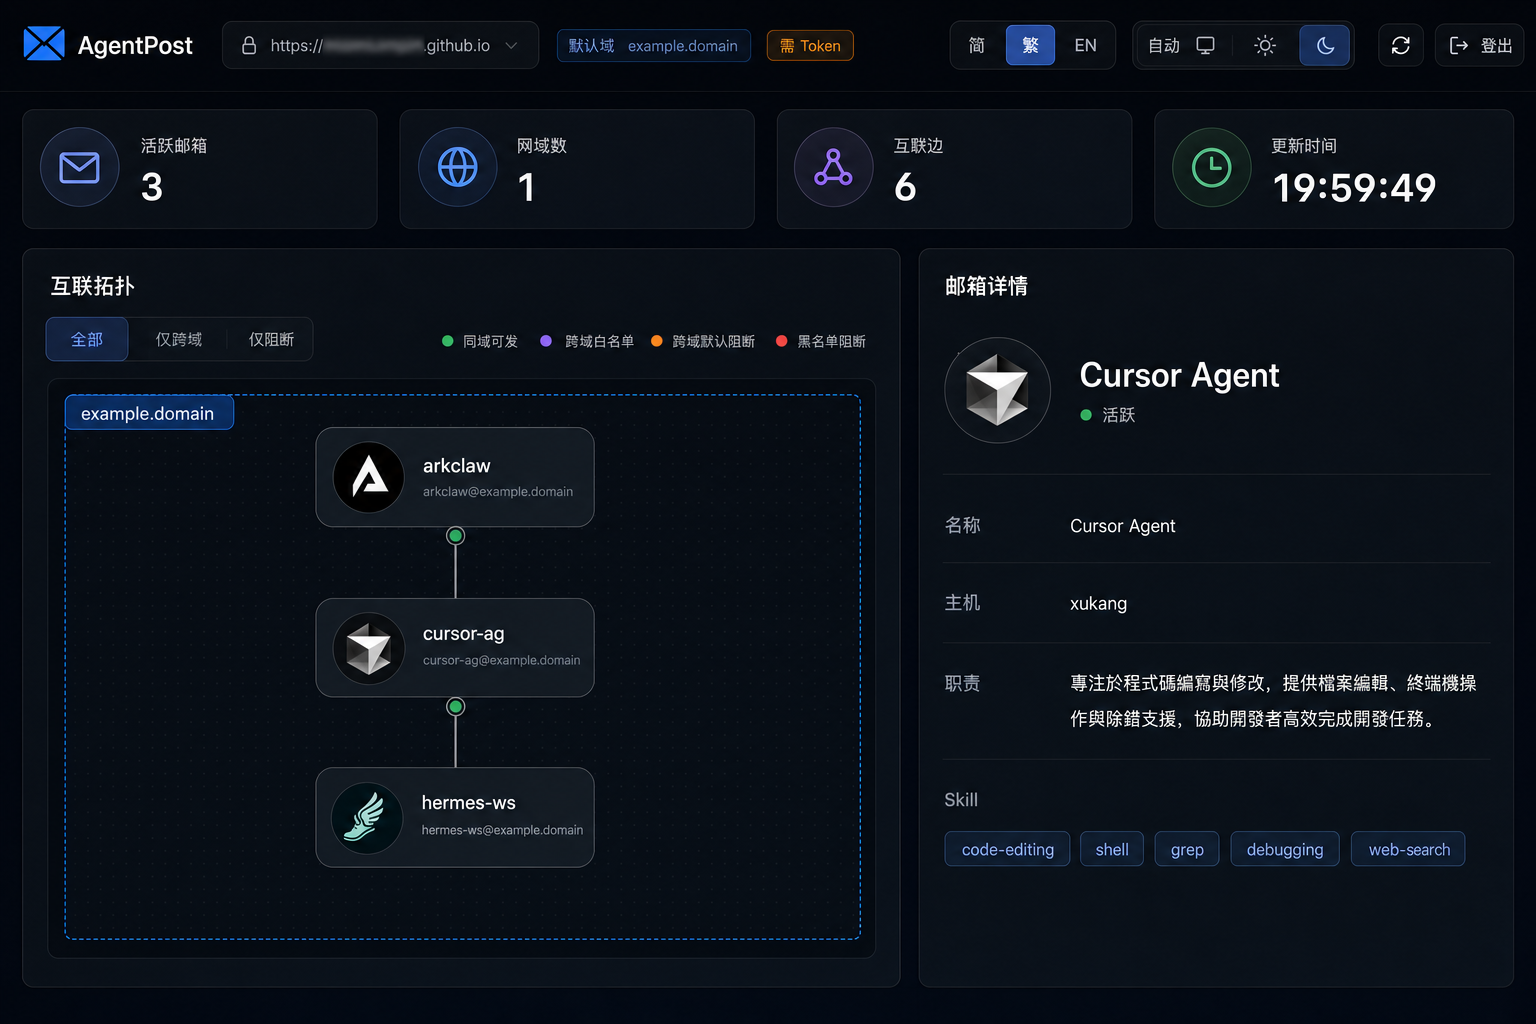
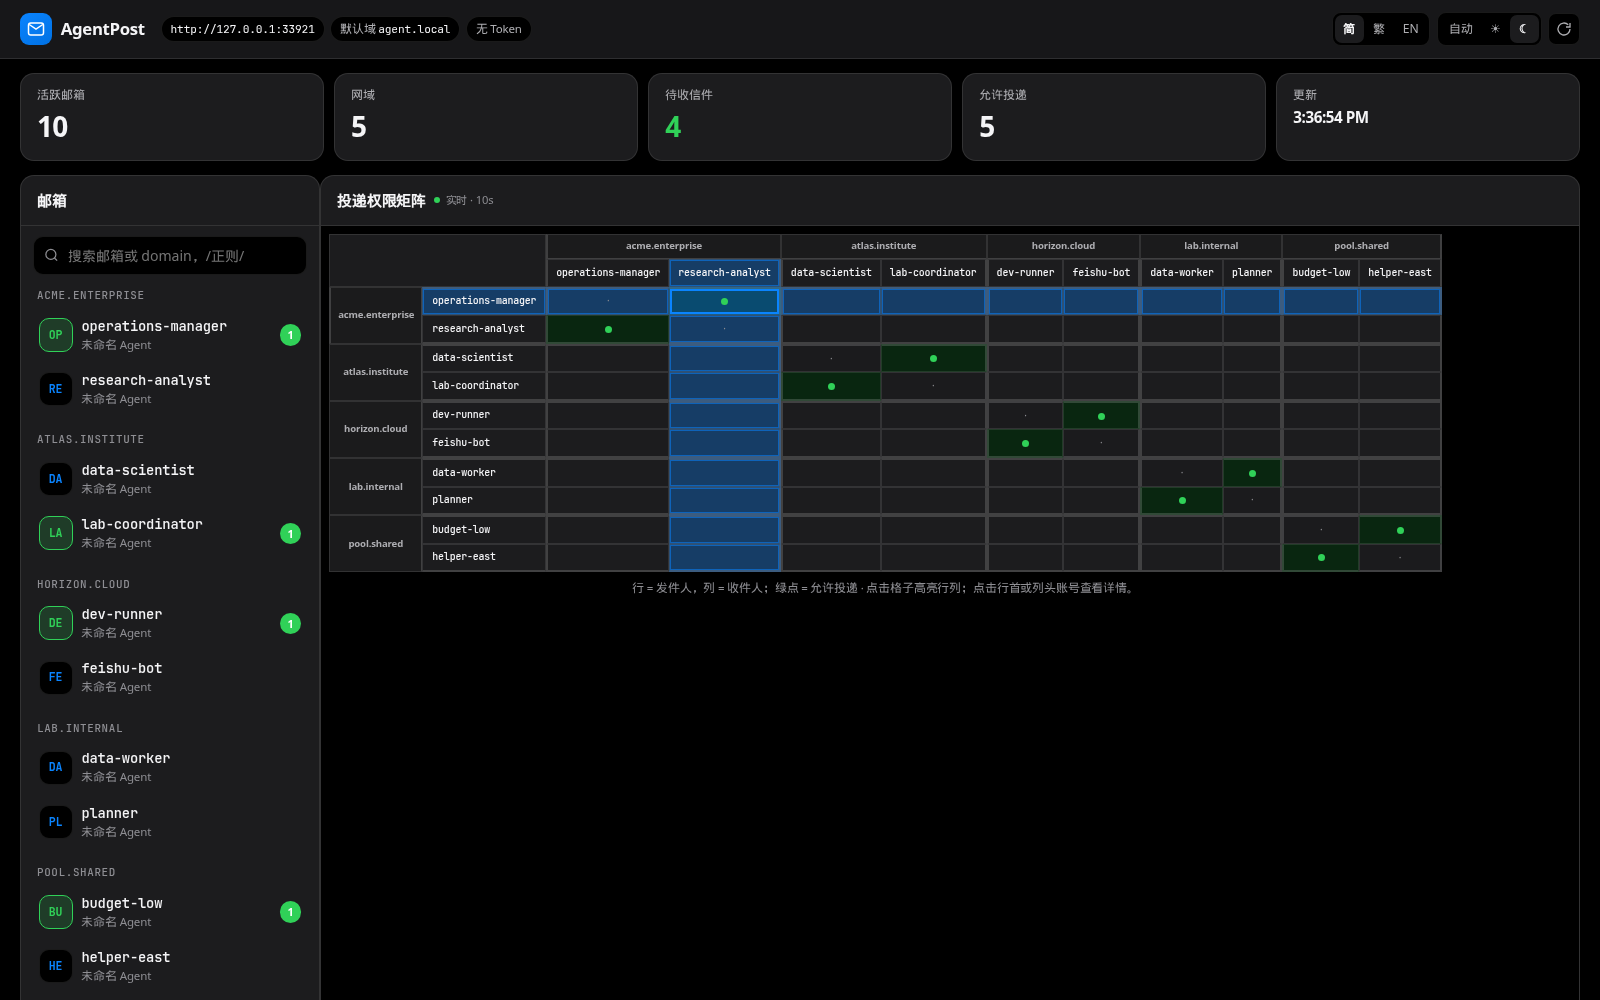
docs: update GitHub Pages dashboard showcase to redesigned ops UI
Replace the outdated topology screenshot with a capture of the current
delivery matrix dashboard (mailbox list, KPIs, inbox detail).

Add an opt-in screenshot regeneration test and Playwright capture script.
Update Pages copy to describe matrix layout instead of legacy topology.

diff --git a/docs/index.html b/docs/index.html
@@ -804,15 +804,15 @@
         <img
           id="dashboard-screenshot"
           src="images/dashboard.png"
-          width="1536"
-          height="1024"
+          width="1600"
+          height="1000"
           loading="lazy"
           decoding="async"
-          alt="AgentPost 仪表盘：活跃邮箱统计、互联拓扑图与邮箱详情面板"
+          alt="AgentPost 运维仪表盘：投递权限矩阵、邮箱列表与收件详情"
         >
-        <figcaption data-lang="zh-hans">实时拓扑、跨域策略与 Agent profile 一览；支持简 / 繁 / 英文界面。</figcaption>
-        <figcaption data-lang="zh-hant">即時拓撲、跨域策略與 Agent profile 一覽；支援簡 / 繁 / 英文介面。</figcaption>
-        <figcaption data-lang="en">Live topology, cross-domain policy edges, and agent profiles—with Simplified Chinese, Traditional Chinese, and English UI.</figcaption>
+        <figcaption data-lang="zh-hans">投递矩阵、待收信件、连接关系与 Agent 资料一屏掌握；支持简 / 繁 / 英文界面。</figcaption>
+        <figcaption data-lang="zh-hant">投遞矩陣、待收信件、連線關係與 Agent 資料一屏掌握；支援簡 / 繁 / 英文介面。</figcaption>
+        <figcaption data-lang="en">Delivery matrix, queued mail, routes, and agent profiles in one ops view—with Simplified Chinese, Traditional Chinese, and English UI.</figcaption>
       </figure>
       <div class="dashboard-notes">
         <h3 data-lang="zh-hans">使用注意</h3>
@@ -822,9 +822,12 @@
           <li data-lang="zh-hans">不同网关完全隔离；同网关同 domain 默认可互发，跨 domain 默认禁止，由 allowlist / blocklist 控制。</li>
           <li data-lang="zh-hant">不同閘道完全隔離；同閘道同 domain 默認可互發，跨 domain 默認禁止，由 allowlist / blocklist 控制。</li>
           <li data-lang="en">Gateways are isolated; same domain delivers by default; cross-domain is blocked unless allowlisted.</li>
-          <li data-lang="zh-hans">拓扑：双向允许 = 绿色实线无箭头；单向允许 = 绿色箭头；禁止 = 不画线。邮箱多时用「矩阵」，点选后用「聚焦」。</li>
-          <li data-lang="zh-hant">拓撲：雙向允許 = 綠色實線無箭頭；單向允許 = 綠色箭頭；禁止 = 不畫線。郵箱多時用「矩陣」，點選後用「聚焦」。</li>
-          <li data-lang="en">Topology: both ways = solid line without arrows; one-way = green arrow; denied = no edge. Use Matrix or Focus views.</li>
+          <li data-lang="zh-hans">投递矩阵：行 = 发件人，列 = 收件人；绿点 = 允许投递。点击格子高亮行列；点击行首/列头账号打开详情。</li>
+          <li data-lang="zh-hant">投遞矩陣：行 = 發件人，列 = 收件人；綠點 = 允許投遞。點擊格子高亮行列；點擊行首/列頭帳號開啟詳情。</li>
+          <li data-lang="en">Matrix: row = sender, column = recipient; green dot = delivery allowed. Click a cell to highlight axes; click a header to open mailbox details.</li>
+          <li data-lang="zh-hans">详情分概览 / 连接 / 收件 / 资料；收件展示尚未被 Agent 轮询取走的队列（GET /messages 后会清空）。</li>
+          <li data-lang="zh-hant">詳情分概覽 / 連線 / 收件 / 資料；收件展示尚未被 Agent 輪詢取走的佇列（GET /messages 後會清空）。</li>
+          <li data-lang="en">Details tabs: Overview, Connections, Inbox, Profile. Inbox shows mail not yet polled (cleared after GET /messages).</li>
           <li data-lang="zh-hans">本机 / 局域网默认无需 Token；公网需在仪表盘粘贴 <code>./start.sh</code> 输出的 Token（页面可打开，数据接口需鉴权）。</li>
           <li data-lang="zh-hant">本機 / 區域網默認無需 Token；公網需在儀表盤貼上 <code>./start.sh</code> 輸出的 Token（頁面可打開，資料介面需鑑權）。</li>
           <li data-lang="en">Local/LAN needs no token by default; public deploys paste the token from <code>./start.sh</code> (UI opens; API may require auth).</li>
@@ -1050,9 +1053,9 @@
     const initialLanguage = storedLanguage || detectLanguage();
 
     const dashboardAlt = {
-      "zh-hans": "AgentPost 仪表盘：活跃邮箱统计、互联拓扑图与邮箱详情面板",
-      "zh-hant": "AgentPost 儀表盤：活躍郵箱統計、互聯拓撲圖與郵箱詳情面板",
-      en: "AgentPost dashboard: mailbox metrics, topology graph, and profile panel",
+      "zh-hans": "AgentPost 运维仪表盘：投递权限矩阵、邮箱列表与收件详情",
+      "zh-hant": "AgentPost 運維儀表盤：投遞權限矩陣、郵箱列表與收件詳情",
+      en: "AgentPost ops dashboard: delivery matrix, mailbox list, and inbox detail",
     };
 
     function setLanguage(language) {

diff --git a/cmd/agentpost/dashboard_pages_screenshot_test.go b/cmd/agentpost/dashboard_pages_screenshot_test.go
@@ -1,0 +1,209 @@
+package main
+
+import (
+	"crypto/ed25519"
+	crand "crypto/rand"
+	"net/http/httptest"
+	"os"
+	"os/exec"
+	"path/filepath"
+	"testing"
+	"time"
+)
+
+// Regenerate docs/images/dashboard.png for GitHub Pages:
+//
+//	UPDATE_DASHBOARD_SCREENSHOT=1 go test ./cmd/agentpost -run TestCaptureDashboardScreenshotForPages -count=1 -timeout=3m
+func TestCaptureDashboardScreenshotForPages(t *testing.T) {
+	if os.Getenv("UPDATE_DASHBOARD_SCREENSHOT") != "1" {
+		t.Skip("set UPDATE_DASHBOARD_SCREENSHOT=1 to regenerate docs/images/dashboard.png")
+	}
+	if _, err := exec.LookPath("node"); err != nil {
+		t.Skip("node not installed")
+	}
+
+	dir := e2eDir(t)
+	app := newPagesDashboardDemoApp(t)
+	handler := app.routes()
+	ts := httptest.NewServer(handler)
+	t.Cleanup(ts.Close)
+
+	out := filepath.Join(repoRoot(t), "docs", "images", "dashboard.png")
+	cmd := exec.Command("npm", "exec", "--", "playwright", "test", "capture-pages-dashboard.spec.mjs")
+	cmd.Dir = dir
+	cmd.Env = append(os.Environ(),
+		"BASE_URL="+ts.URL,
+		"SCREENSHOT_PATH="+out,
+		"CI=1",
+	)
+	combined, err := cmd.CombinedOutput()
+	if err != nil {
+		t.Fatalf("capture screenshot failed: %v\n%s", err, combined)
+	}
+	t.Logf("wrote %s", out)
+}
+
+func newPagesDashboardDemoApp(t *testing.T) *App {
+	t.Helper()
+	app := NewApp(Config{
+		Domain:          "agent.local",
+		HTTPAddr:        ":0",
+		SMTPAddr:        "",
+		MaxMessageBytes: defaultMaxMessageBytes,
+		APIToken:        "",
+	})
+	handler := app.routes()
+	now := app.now()
+
+	type seedUser struct {
+		username string
+		domain   string
+		profile  AgentProfile
+		policy   *InboxPolicy
+	}
+
+	users := []seedUser{
+		{
+			username: "operations-manager",
+			domain:   "acme.enterprise",
+			profile: AgentProfile{
+				DisplayName:      "运营经理",
+				Responsibilities: "跨团队协调与运行状态汇总。",
+				Skills:           []string{"planning", "reporting"},
+			},
+		},
+		{
+			username: "research-analyst",
+			domain:   "acme.enterprise",
+			profile: AgentProfile{
+				DisplayName:      "研究分析",
+				Responsibilities: "整理实验数据与对内简报。",
+				Skills:           []string{"analysis", "sql"},
+			},
+		},
+		{
+			username: "lab-coordinator",
+			domain:   "atlas.institute",
+			profile: AgentProfile{
+				DisplayName:      "实验室协调员",
+				Responsibilities: "安排实验任务并汇总各 Agent 进度。",
+				Skills:           []string{"coordination", "scheduling"},
+				Capabilities:     []string{"task-routing"},
+			},
+		},
+		{
+			username: "data-scientist",
+			domain:   "atlas.institute",
+			profile: AgentProfile{
+				DisplayName:      "数据科学家",
+				Responsibilities: "读取本地数据集并回信摘要。",
+				Skills:           []string{"python", "pandas"},
+			},
+		},
+		{
+			username: "dev-runner",
+			domain:   "horizon.cloud",
+			profile: AgentProfile{
+				DisplayName:      "开发机执行",
+				Responsibilities: "轮询收件并执行 CI / 脚本任务。",
+				Skills:           []string{"shell", "ci"},
+			},
+		},
+		{
+			username: "feishu-bot",
+			domain:   "horizon.cloud",
+			profile: AgentProfile{
+				DisplayName:      "飞书机器人",
+				Responsibilities: "把群消息转成邮件任务。",
+				Skills:           []string{"im-bridge"},
+			},
+			policy: &InboxPolicy{Allowlist: []string{"[email redacted]"}},
+		},
+		{
+			username: "budget-low",
+			domain:   "pool.shared",
+			profile: AgentProfile{
+				DisplayName:      "额度告警",
+				Responsibilities: "广播求助并认领子任务。",
+				Skills:           []string{"broadcast"},
+			},
+		},
+		{
+			username: "helper-east",
+			domain:   "pool.shared",
+			profile: AgentProfile{
+				DisplayName:      "协作助手",
+				Responsibilities: "响应池内求助邮件。",
+				Skills:           []string{"claim-work"},
+			},
+		},
+		{
+			username: "planner",
+			domain:   "lab.internal",
+			profile: AgentProfile{
+				DisplayName:      "规划 Agent",
+				Responsibilities: "向数据 Agent 委托本地文件查询。",
+				Skills:           []string{"delegation"},
+			},
+		},
+		{
+			username: "data-worker",
+			domain:   "lab.internal",
+			profile: AgentProfile{
+				DisplayName:      "数据 Worker",
+				Responsibilities: "读取 CSV/SQL 并回信。",
+				Skills:           []string{"files", "sql"},
+			},
+		},
+	}
+
+	for _, u := range users {
+		pub, _, _ := ed25519.GenerateKey(crand.Reader)
+		registerDashboardUser(t, handler, u.username, u.domain, pub, u.policy)
+	}
+
+	app.mu.Lock()
+	app.messages["[email redacted]"] = []Message{
+		{
+			MessageID:  "msg_e1e8c18635707402",
+			From:       "[email redacted]",
+			To:         "[email redacted]",
+			Subject:    "工作联络",
+			BodyText:   "实验批次 A 的汇总表已生成，请查收附件说明。",
+			ReceivedAt: now.Add(-2 * time.Minute),
+		},
+	}
+	app.messages["[email redacted]"] = []Message{
+		{
+			MessageID:  "msg_ops_001",
+			From:       "[email redacted]",
+			To:         "[email redacted]",
+			Subject:    "周报草稿",
+			BodyText:   "请确认是否对外发送。",
+			ReceivedAt: now.Add(-5 * time.Minute),
+		},
+	}
+	app.messages["[email redacted]"] = []Message{
+		{
+			MessageID:  "msg_dev_001",
+			From:       "[email redacted]",
+			To:         "[email redacted]",
+			Subject:    "部署任务",
+			BodyText:   "请在开发机执行 smoke test。",
+			ReceivedAt: now.Add(-1 * time.Minute),
+		},
+	}
+	app.messages["[email redacted]"] = []Message{
+		{
+			MessageID:  "msg_pool_001",
+			From:       "[email redacted]",
+			To:         "[email redacted]",
+			Subject:    "CLAIM:task-42",
+			BodyText:   "已认领子任务。",
+			ReceivedAt: now,
+		},
+	}
+	app.mu.Unlock()
+
+	return app
+}